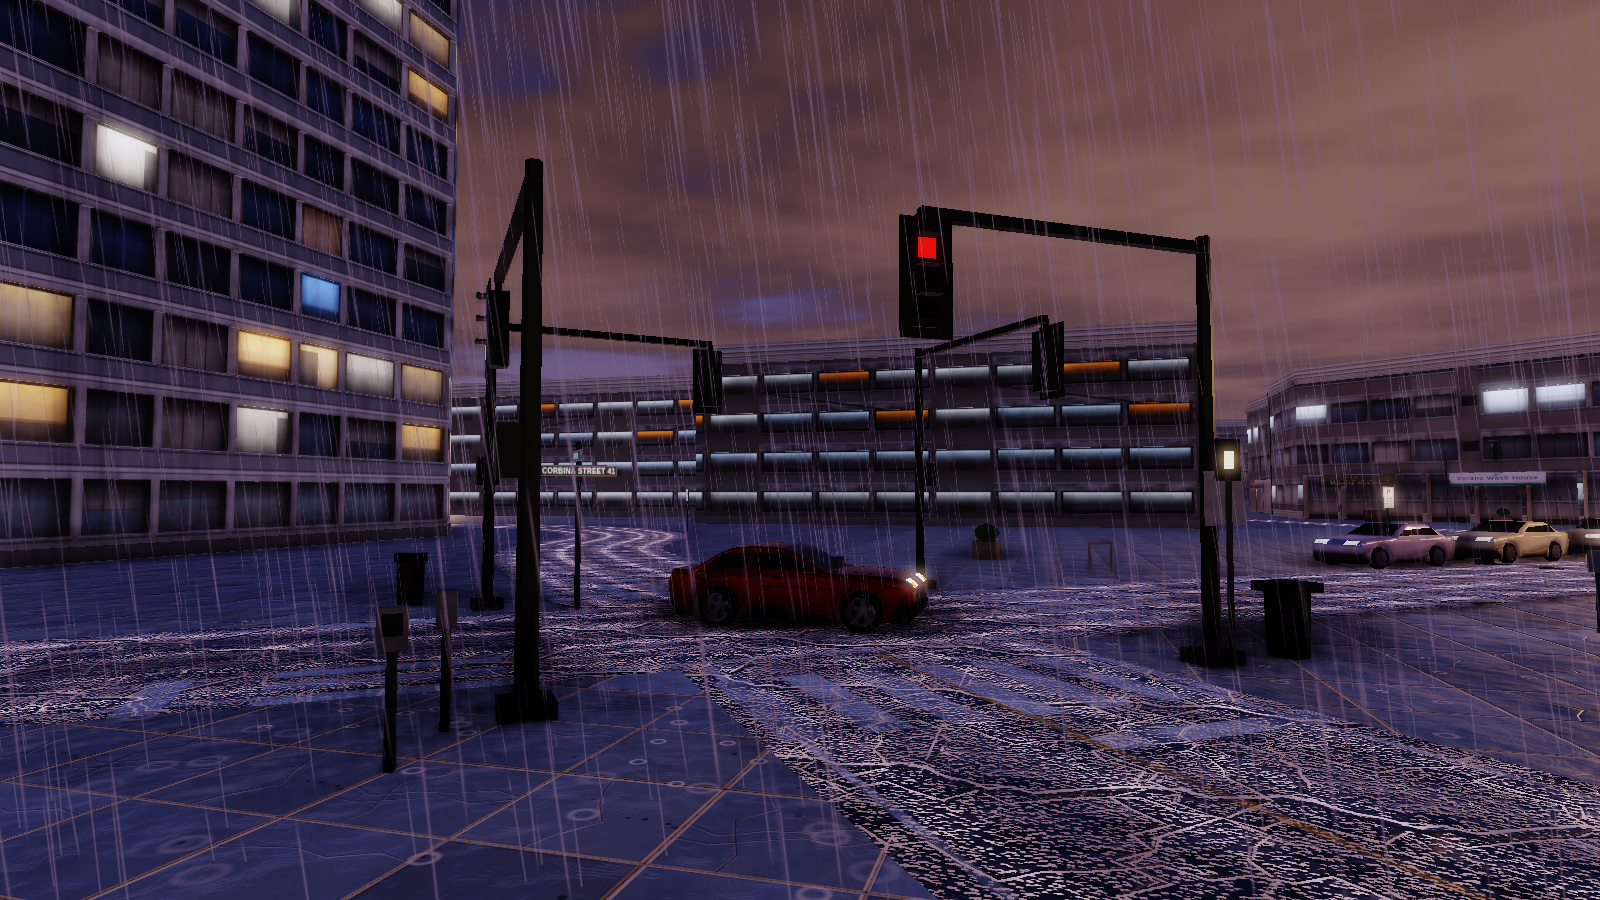
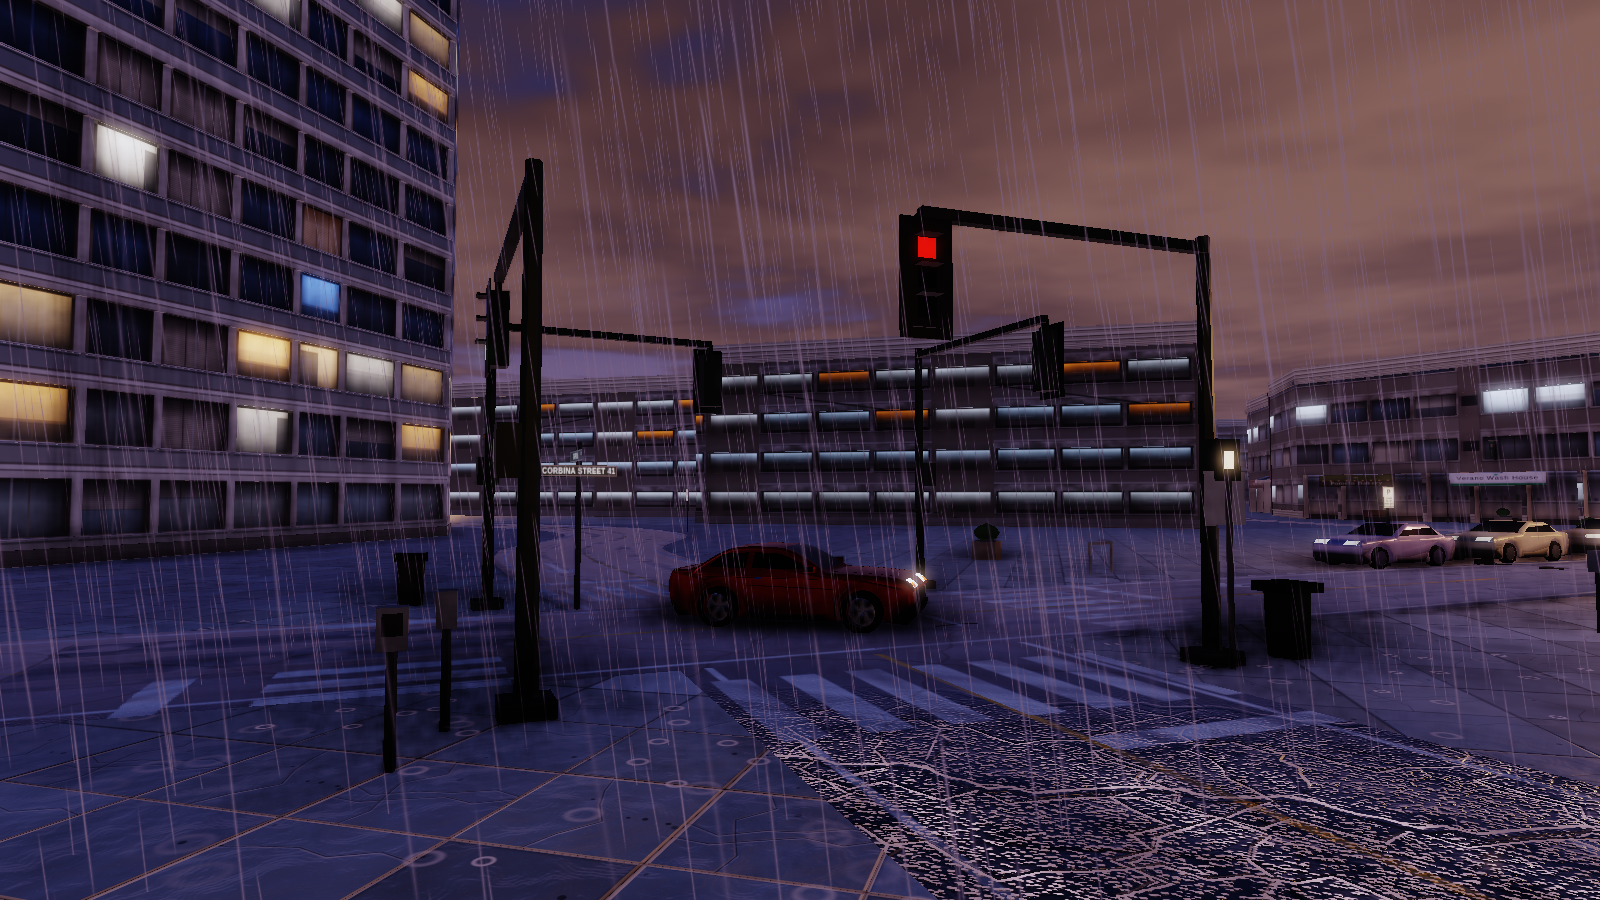
Weather captures with the aliasing fix in
Canonical frames and report for the record, replacing the set captured between
the envMapIntensity fix and the normal-fade fix. Clear is unchanged at dusk
(130.9) and inside the noise floor at night; heavy rain reads stronger still
(dusk delta 31.2 -> 33.6, night 20.5 -> 18.2 as the spurious bright dashes the
aliasing was contributing come out of the difference).

diff --git a/src/post.js b/src/post.js
@@ -34,7 +34,13 @@ uniform float threshold;
 uniform float softKnee;
 varying vec2 vUv;
 void main() {
+  // Same guard as the composite's sanitize(), inlined because this shader does not
+  // share SKY_COMMON-style includes with it. Without it, contrib below is
+  // Inf/Inf = NaN and the separable blur then spreads that NaN over a 9-tap
+  // neighbourhood of otherwise-good pixels.
   vec3 c = texture2D(tDiffuse, vUv).rgb;
+  bvec3 ok = lessThanEqual(c, vec3(60000.0));
+  c = mix(vec3(60000.0), max(c, vec3(0.0)), vec3(ok));
   float lum = dot(c, vec3(0.2126, 0.7152, 0.0722));
   // Soft knee so the bloom does not switch on as a hard edge across a gradient.
   float knee = threshold * softKnee + 1e-5;
@@ -226,9 +232,39 @@ vec3 aces(vec3 x) {
   return clamp((x * (a * x + b)) / (x * (c * x + d) + e), 0.0, 1.0);
 }
 
+// Half-float hygiene, and the reason the noon frame has a hole in it.
+//
+// The scene renders into a HalfFloatType target and the district is authored in
+// absolute nits, so a metallic pane reflecting the PMREM - whose own ceiling is
+// sky.js's maxRadiance of 60,000 nits - plus a direct specular lobe from a
+// 34,470 lux sun lands past half-float's 65,504 and stores Inf. Some of it comes
+// back NaN outright: measured at the corridor camera at golden hour, 14,259 NaN
+// channels and 8 Inf in the 1600x900 scene target, with the finite maximum sitting
+// exactly on 65,504.
+//
+// aces() is clamp((x(ax+b))/(x(cx+d)+e)): hand it Inf and it computes Inf/Inf, and
+// clamp(NaN) is 0 on this rasteriser. That is a PURE BLACK blob, and it is not new
+// - docs/shots/tod-noon.png has 20,920 pure-black pixels (1.79% of frame) on the
+// committed build, and three critic rounds have described the noon frame as having
+// black facades. Dusk has none of it, because at 1,200 lux nothing gets near the
+// ceiling. Switching bloom off does not remove it, which is what ruled the bright
+// pass out as the source.
+//
+// NaN fails every comparison, including against itself, so lessThanEqual() is
+// false for NaN and for Inf alike and both land on the ceiling. A blown specular
+// highlight then renders as the white it physically is instead of as a hole.
+// Finite pixels are returned bit-for-bit unchanged, so no frame that was correct
+// moves.
+vec3 sanitize(vec3 c) {
+  const float CEIL = 60000.0;
+  bvec3 ok = lessThanEqual(c, vec3(CEIL));
+  return mix(vec3(CEIL), max(c, vec3(0.0)), vec3(ok));
+}
+
+
 void main() {
-  vec3 scene = texture2D(tScene, vUv).rgb;
-  vec3 bloom = texture2D(tBloom, vUv).rgb;
+  vec3 scene = sanitize(texture2D(tScene, vUv).rgb);
+  vec3 bloom = sanitize(texture2D(tBloom, vUv).rgb);
   float depth = texture2D(tDepth, vUv).r;
 
   // AO multiplies the scene but NOT the bloom. Bloom comes from emissives - lit

diff --git a/src/pedestrians.js b/src/pedestrians.js
@@ -386,8 +386,11 @@ export class Pedestrians {
     // Which near-pool slot each ped holds, or -1. Packed 0..nearLive-1 so the
     // near meshes can submit exactly the instances that are in use.
     this._nearSlot = new Int16Array(this.count).fill(-1);
-    this._nearPick = new Int16Array(this.nearPool);
-    this._nearKey = new Float32Array(this.nearPool);
+    // NOT _nearKey / _nearPick: _edgesNear() already owns this._nearKey and
+    // stores a CHUNK KEY STRING in it. Shadowing it made _assignNearLod write
+    // key[j] into "0,-1" and throw on every frame.
+    this._lodPick = new Int16Array(this.nearPool);
+    this._lodKey = new Float32Array(this.nearPool);
     this._nearColorDirty = false;
     this._camX = 0; this._camZ = 0; this._camSeen = false;
     this.aliveCount = 0;
@@ -551,7 +554,7 @@ export class Pedestrians {
     // a few metres behind it.
     const cx = this._camSeen ? this._camX : fx;
     const cz = this._camSeen ? this._camZ : fz;
-    const idx = this._nearPick, key = this._nearKey;
+    const idx = this._lodPick, key = this._lodKey;
     const pool = this.nearPool;
     let n = 0;
     for (let i = 0; i < this.count; i++) {
